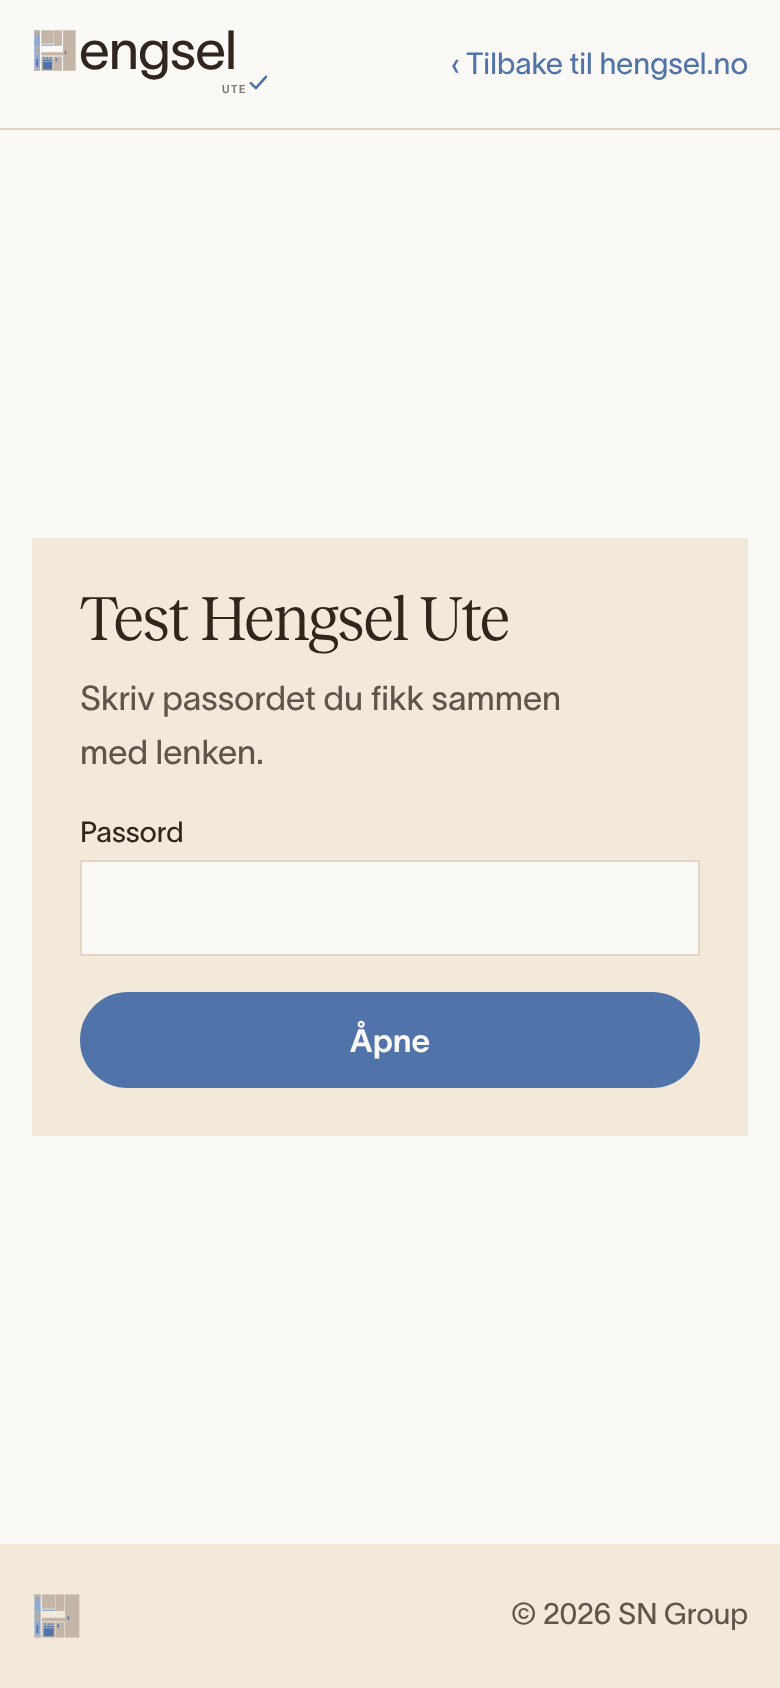
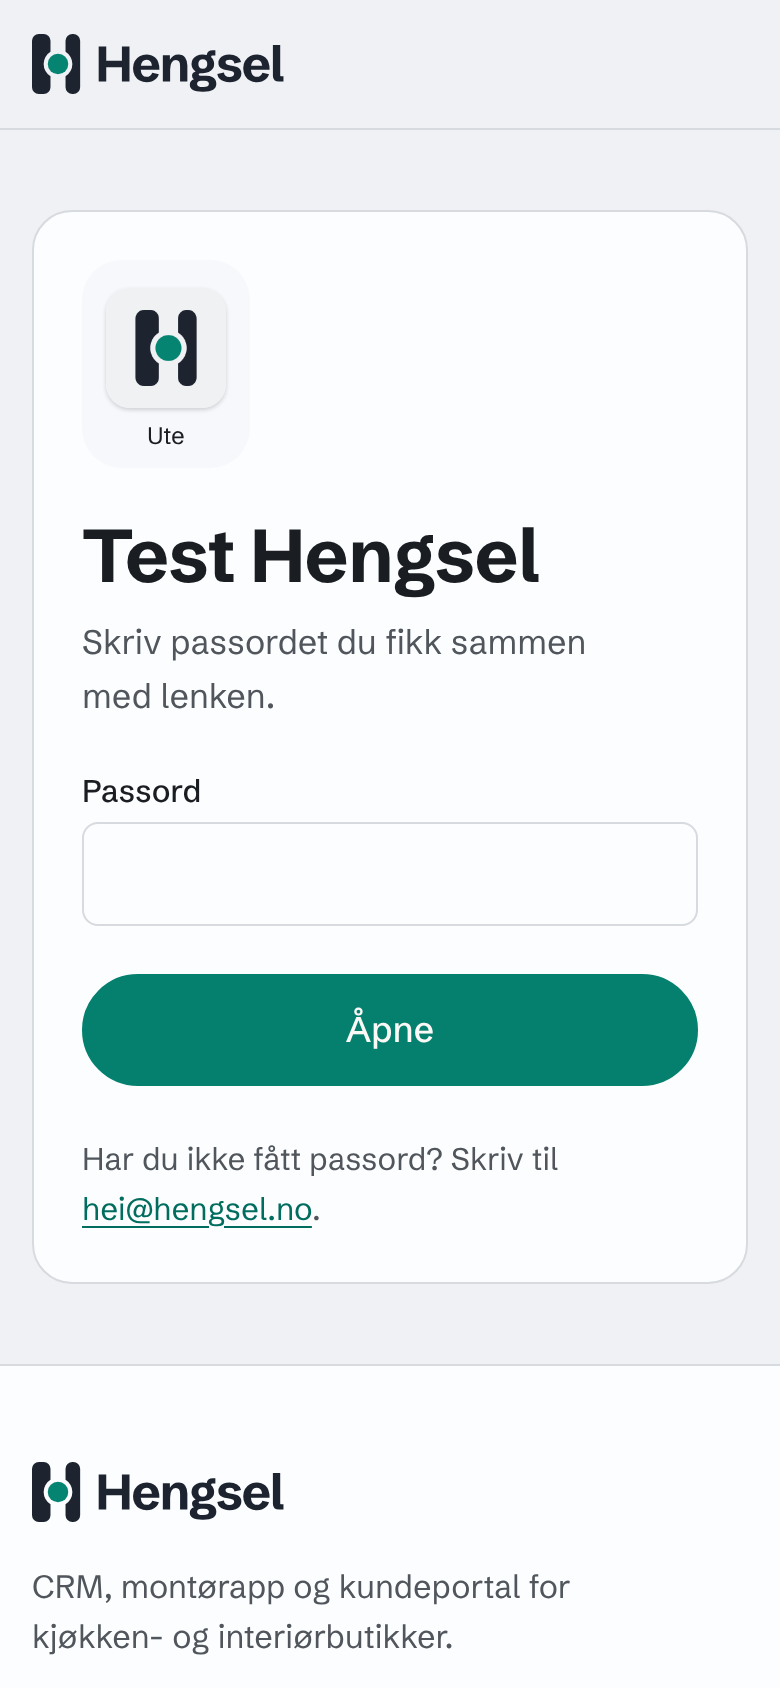
hengsel.no/apptest: «Prøv med demobrukerne» tilbake, passordsiden med bestillingens tekst (S-56)
Ny del etter installeringskortene: forklaring, felles demopassord i egen flate med Kopier, merknad om
@demo.invalid, listene «I appen» og «I CRM-et» og knappen «Last ned oversikten (PDF)». Workeren setter
passordet inn fra DEMO_PASSORD også i [data-demopassord-verdi]. Passordsiden: «Skriv passordet du fikk
sammen med lenken.» og «Feil passord. Prøv igjen, eller spør Eirik.». Vakttest og skjermbildesjekk
tilpasset, nye skjermbilder (390 og 1440). Ingen passord i repoet.

Claude-Session: https://claude.ai/code/session_01F6fNJjPGrxYJ7sdja9bDaZ

diff --git a/sites/hengsel/src/apptest-innhold.ts b/sites/hengsel/src/apptest-innhold.ts
@@ -177,3 +177,21 @@ export const SPORSMAL: { q: string; a: string }[] = [
   { q: "Hvordan logger jeg ut?", a: "Gå til Meg og trykk «Logg ut»." },
   { q: "Hvordan får jeg tilbake ekte data?", a: "Logg ut av demobrukeren og logg inn med din egen bruker." },
 ];
+
+/** «Prøv med demobrukerne» (K-114): brukerne i appen (velg «Demo») og i CRM-et. Passordet er felles og står aldri her: Workeren setter det inn. */
+export const DEMO_APP: [string, string, string][] = [
+  ["montor1", "Montør", "I dag, jobbsiden, mål og skisse, KS, avvik og Ferdig montert."],
+  ["montor2", "Montør, polsk", "Appen på polsk."],
+  ["firmaleder1", "Firmaleder med team", "Forespørsler, svar og fordeling av jobber."],
+  ["firmaleder2", "Firmaleder uten ansatte", "Egne jobber og forespørsler."],
+  ["firmaleder3", "Firmaleder", "Garderobe, skyvedører og bad."],
+  ["utkjorer", "Utkjører", "Ruten, mottak på lager, levering og skade."],
+  ["selger1", "Selger", "Selgermodus i appen."],
+];
+export const DEMO_CRM: [string, string][] = [
+  ["selger1 – selger6", "Selgere i tre butikker (selger2 og selger6 er prosjektselgere)"],
+  ["leder", "Leder og admin"],
+  ["montasjeleder", "Montasjeleder og bestilling"],
+  ["bestilling", "Bestilling"],
+  ["superadmin", "Superadmin"],
+];

diff --git a/sites/hengsel/worker/apptest.ts b/sites/hengsel/worker/apptest.ts
@@ -76,13 +76,14 @@ async function apptest(req: Request, env: Env, url: URL): Promise<Response> {
 /**
  * K-114: demopassordet settes inn i HTML-en for innloggede (bare bak passordet til /apptest). Hver rolle har sin egen
  * <span data-demopassord="{rolle}"> (alle viser det samme felles passordet) og en «Kopier»-knapp med [data-demopassord-knapp].
+ * Delen «Prøv med demobrukerne» har ett felles felt med [data-demopassord-verdi] (samme innsetting).
  * Uten hemmeligheten står spanen med «••••••••», knappene er skjult og «Passordet får du av den som inviterte deg» vises.
  * Passordet er aldri i de statiske filene.
  */
 export function medDemopassord(svar: Response, passord: string | undefined): Response {
   if (!passord || !(svar.headers.get("Content-Type") ?? "").startsWith("text/html")) return svar;
   return new HTMLRewriter()
-    .on("[data-demopassord]", { element: (el) => el.setInnerContent(passord) })
+    .on("[data-demopassord], [data-demopassord-verdi]", { element: (el) => el.setInnerContent(passord) })
     .on("[data-demopassord-knapp]", { element: (el) => el.removeAttribute("hidden") })
     .on("[data-uten-demopassord]", { element: (el) => el.remove() })
     .transform(svar);
